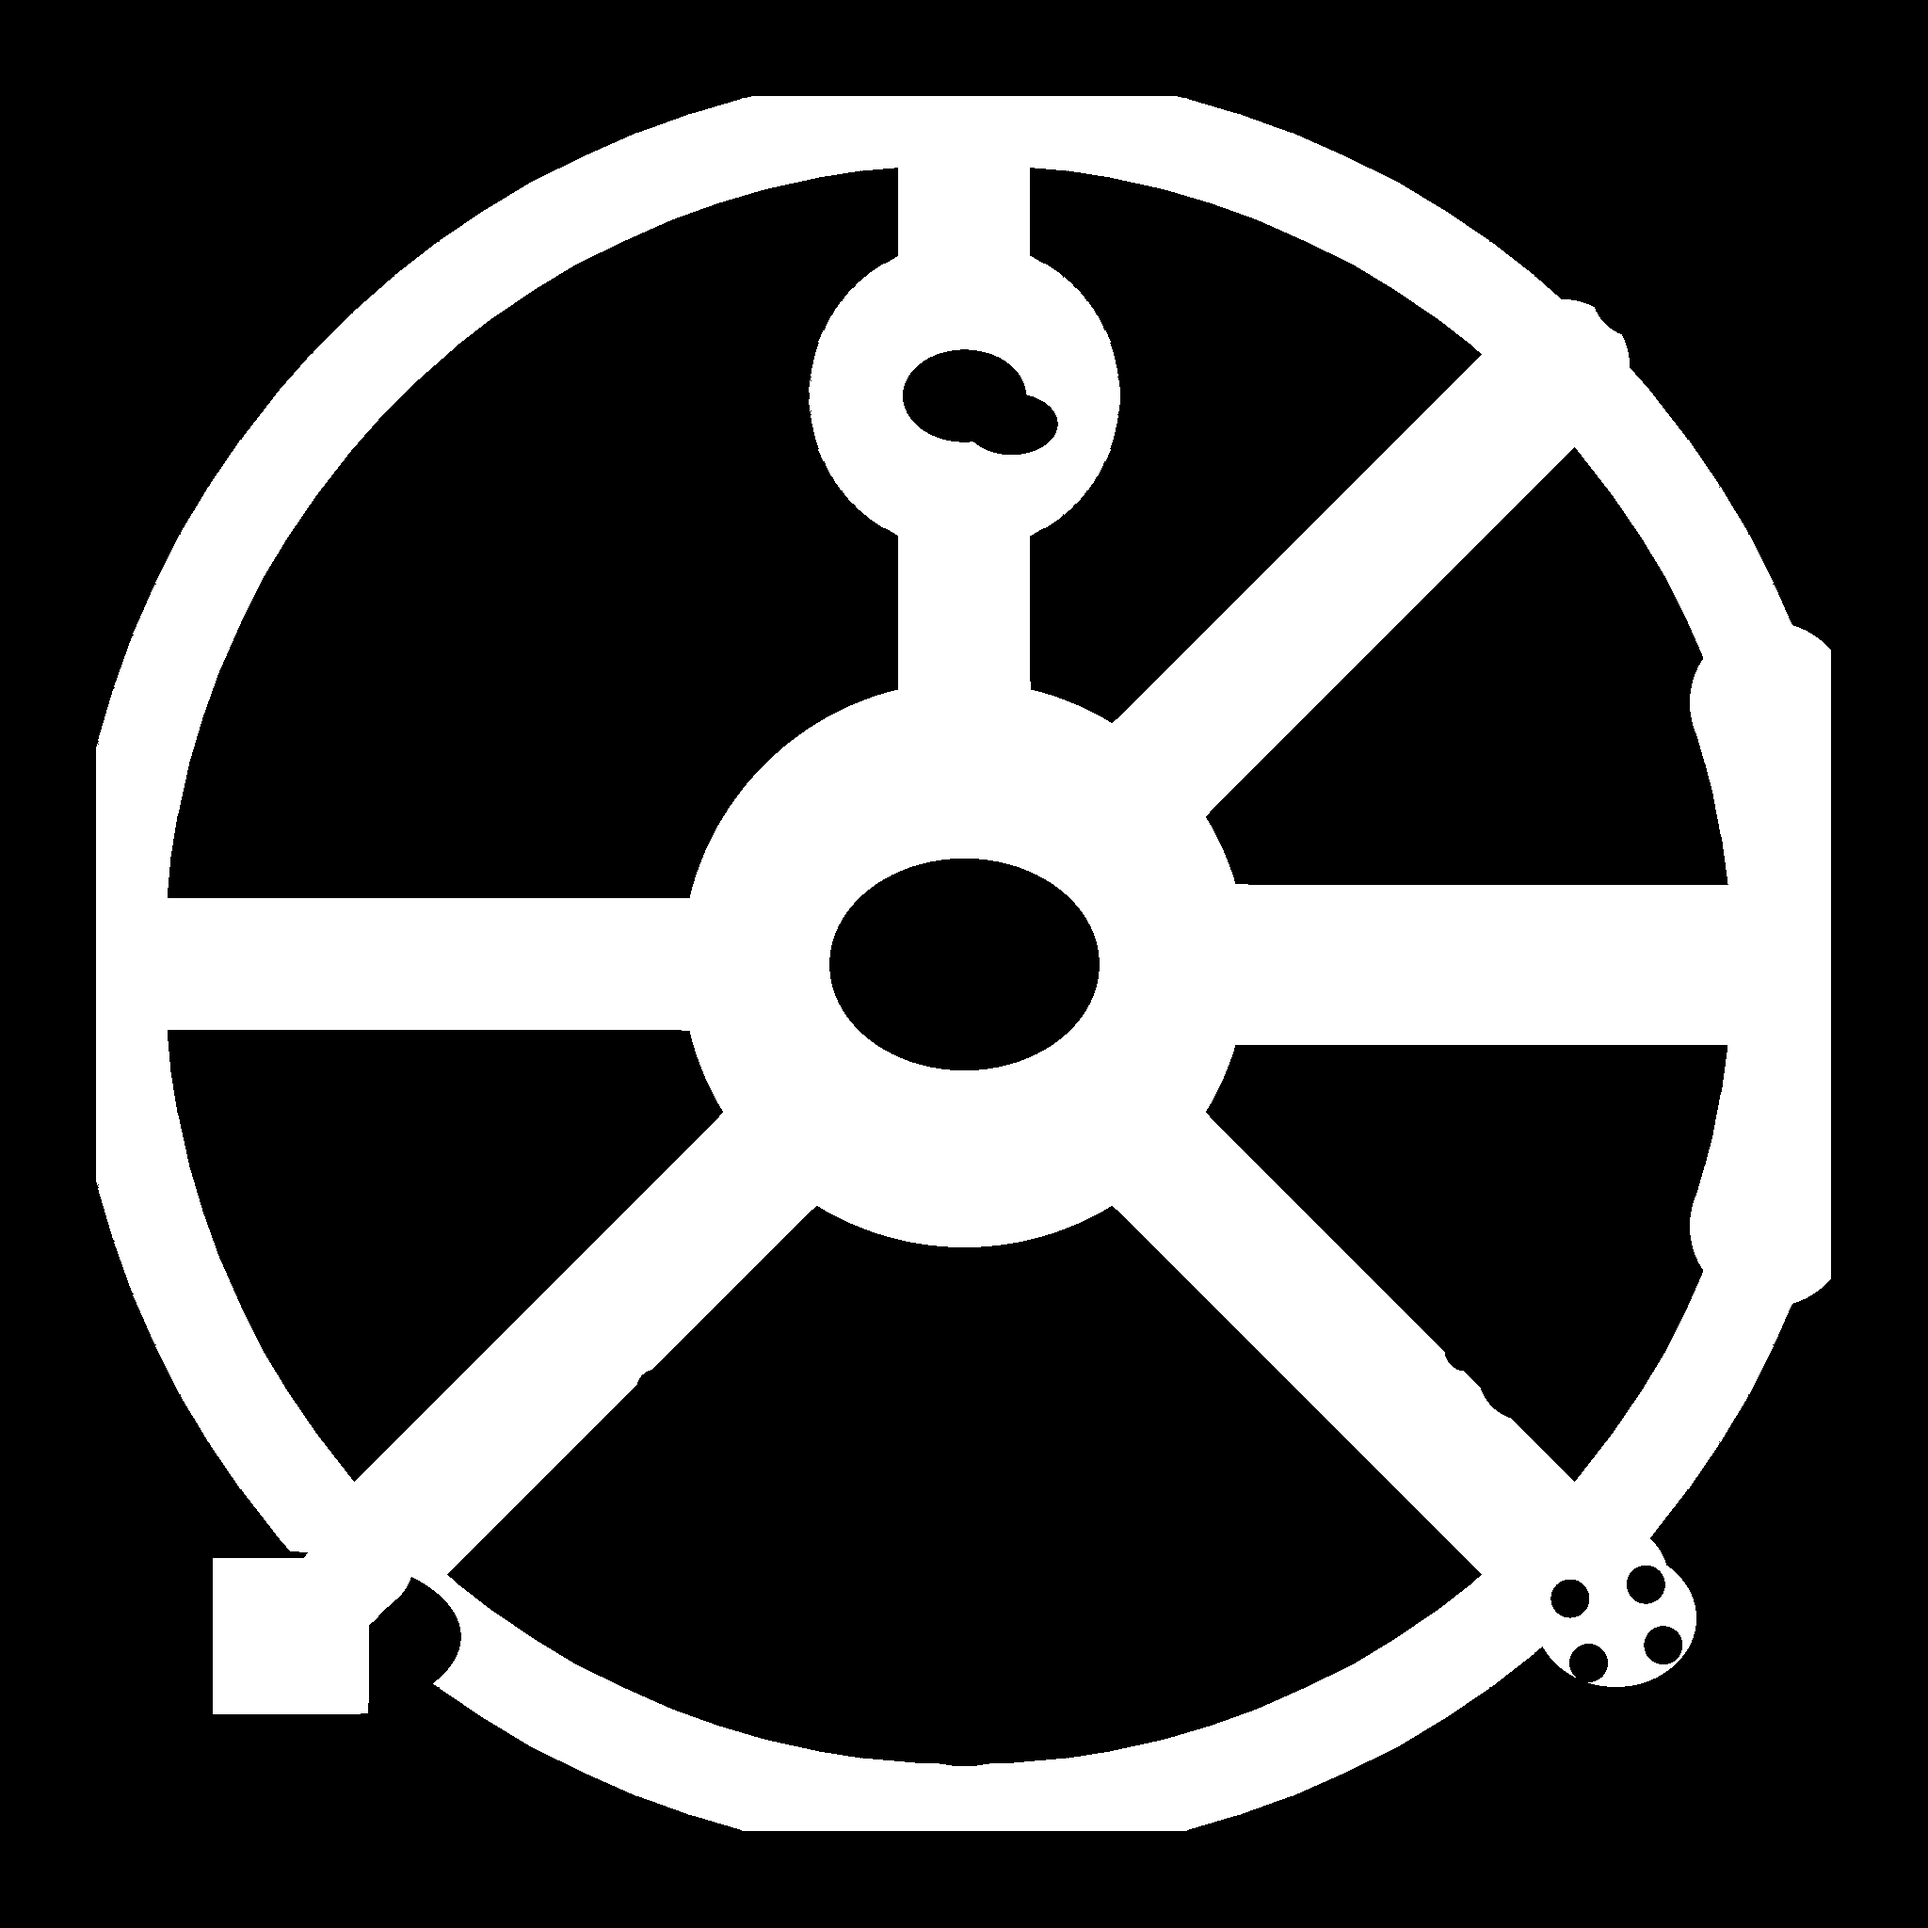
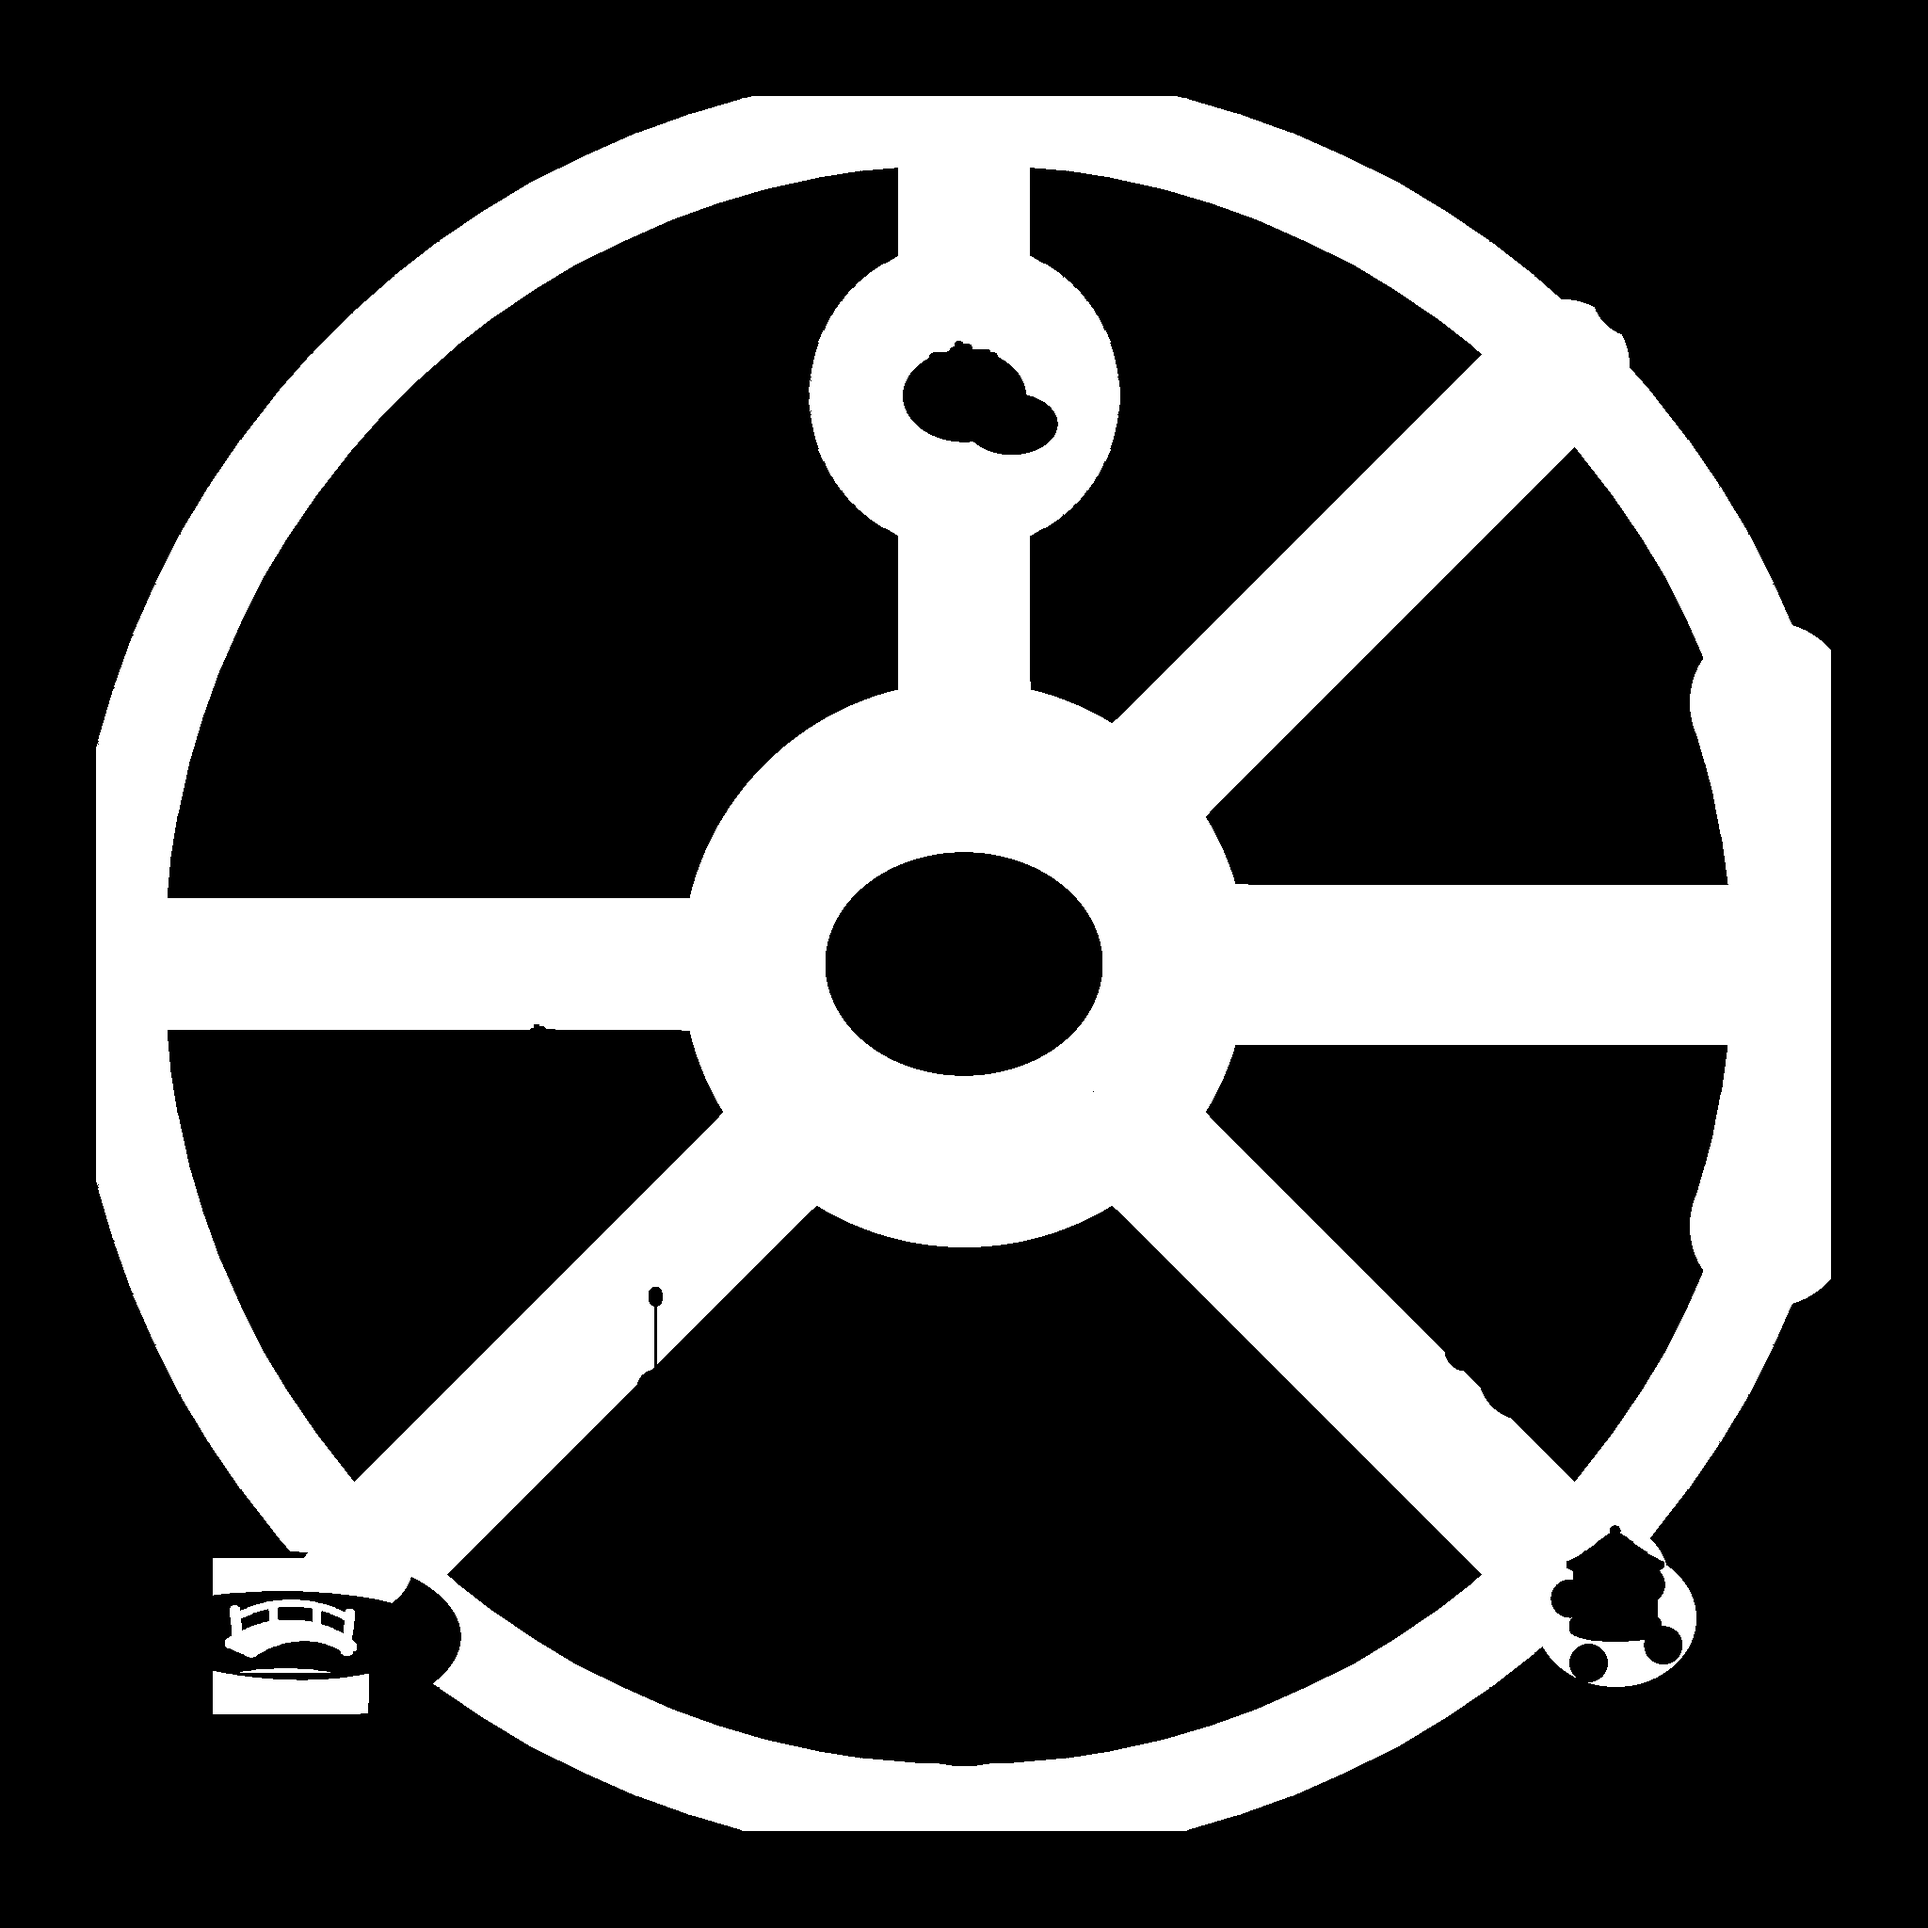
Keep Bé Da on the path around the fountain (#130)
Smoothing was allowed to cut blocked corners, and a pan or pinch cleared her route. The basin, pond, gazebo, and trunks are blocked, and only a new tap picks a new destination.

Changed region(s): [[0.0938, 0.8125, 0.2188, 0.875], [0.8125, 0.7812, 0.875, 0.875], [0.4375, 0.4375, 0.5312, 0.4688]]

diff --git a/lib/mascot/game/shell/pixi-runtime.ts b/lib/mascot/game/shell/pixi-runtime.ts
@@ -4,6 +4,7 @@ import { Viewport } from "pixi-viewport";
 import { lobbyMinScale, lobbyWorldSize, stackNameLabels } from "@/lib/mascot/game/lobby";
 import {
   LOBBY_WALK_MASK,
+  blockEllipse,
   findRoute,
   gridFromMask,
   gridSize,
@@ -15,7 +16,7 @@ import {
 import { LOBBY_DECOR, LOBBY_DECOR_MAP, LOBBY_GROUND, LOBBY_LAYOUT, type ParkPiece } from "@/lib/mascot/game/lobby-park";
 import { startShellClock } from "@/lib/game/core/clock";
 import { rendererResolution } from "@/lib/game/core/dpr";
-import { arrowGoal, TAP_MS } from "@/lib/game/core/input";
+import { arrowGoal, TAP_MS, walkTargetChanges } from "@/lib/game/core/input";
 import {
   LOBBY_BOUNDS,
   LOBBY_FOUNTAIN,
@@ -244,6 +245,7 @@ export async function startPixiShell(options: {
     const key = `${size.cols}x${size.rows}`;
     if (!walkGrid || walkGridKey !== key) {
       walkGrid = gridFromMask(maskPixels, maskW, maskH, size.cols, size.rows);
+      blockEllipse(walkGrid, LOBBY_FOUNTAIN);
       walkGridKey = key;
       standCache.clear();
       maskPixels = null;
@@ -398,14 +400,6 @@ export async function startPixiShell(options: {
     });
   };
 
-  const stopWalk = () => {
-    route = [];
-    if (!walker) return;
-    walker.goal = null;
-    walker.vx = 0;
-    walker.vy = 0;
-  };
-
   const aimNorm = (point: { x: number; y: number }, scene: ShellSceneName) => {
     const size = worldSize(scene, viewW, viewH);
     const grid = scene === "lobby" ? ensureWalkGrid(size.worldW, size.worldH) : null;
@@ -450,19 +444,12 @@ export async function startPixiShell(options: {
         minScale: lobbyMinScale(viewW, viewH, initialW, initialH),
         maxScale: ZOOM_MAX,
       });
-    viewport.on("drag-start", () => {
-      stopWalk();
-    });
-    viewport.on("pinch-start", () => {
-      stopWalk();
-    });
-    viewport.on("wheel-start", () => {
-      stopWalk();
-    });
     viewport.on("pointerdown", () => {
       downAt = performance.now();
     });
     viewport.on("clicked", (payload: { world?: { x: number; y: number } }) => {
+      // Drag and pinch clear clickedAvailable in pixi-viewport, so this is a tap.
+      if (!walkTargetChanges("tap")) return;
       if (performance.now() - downAt > TAP_MS) return;
       const world = payload?.world;
       if (!world) return;
@@ -474,7 +461,6 @@ export async function startPixiShell(options: {
   const api: ShellApi = {
     zoomBy(factor) {
       if (!lobby) return;
-      stopWalk();
       const size = worldSize("lobby", viewW, viewH);
       const scale = Math.min(ZOOM_MAX, Math.max(lobbyMinScale(viewW, viewH, size.worldW, size.worldH), viewport.scale.x * factor));
       viewport.animate({
@@ -497,10 +483,9 @@ export async function startPixiShell(options: {
         removeOnInterrupt: true,
       });
     },
-    panBy(dx, dy, user = true) {
+    panBy(dx, dy, _user = true) {
       viewport.x += dx;
       viewport.y += dy;
-      if (user) stopWalk();
     },
   };
   if (options.api) options.api.current = api;
@@ -524,7 +509,7 @@ export async function startPixiShell(options: {
         walker.y = stand.y;
       }
       const bounds = snap.scene === "room" ? ROOM_BOUNDS : LOBBY_BOUNDS;
-      const obstacle = snap.scene === "lobby" && !grid ? LOBBY_FOUNTAIN : null;
+      const obstacle = snap.scene === "lobby" ? LOBBY_FOUNTAIN : null;
       const span = snap.scene === "room" ? viewW : worldW;
       if (reduced && route.length > 0) {
         const last = route[route.length - 1]!;
@@ -629,6 +614,8 @@ export async function startPixiShell(options: {
         if (label) labelNodes.set(sprite.id, label);
       }
       if (label) {
+        label.dataset.nx = at.x.toFixed(4);
+        label.dataset.ny = at.y.toFixed(4);
         let size = labelSize.get(label);
         if (!size) {
           const tag = label.querySelector<HTMLElement>(".beda-tag") ?? label;

diff --git a/lib/mascot/game/lobby-walk.ts b/lib/mascot/game/lobby-walk.ts
@@ -108,16 +108,78 @@ export function nearestWalkable(grid: WalkGrid, x: number, y: number): WalkPoint
   return centerOf(grid, start.c, start.r);
 }
 
+function walkableCell(grid: WalkGrid, c: number, r: number): boolean {
+  if (c < 0 || r < 0 || c >= grid.cols || r >= grid.rows) return false;
+  return grid.walk[r * grid.cols + c] === 1;
+}
+
+/**
+ * Every cell the segment crosses, including the two sides of a diagonal step.
+ * Rounding the line onto one cell used to skip a blocked corner and cut the fountain.
+ */
 function lineClear(grid: WalkGrid, from: { c: number; r: number }, to: { c: number; r: number }): boolean {
-  const steps = Math.max(Math.abs(to.c - from.c), Math.abs(to.r - from.r));
-  if (steps === 0) return grid.walk[from.r * grid.cols + from.c] === 1;
-  for (let i = 0; i <= steps; i += 1) {
-    const t = i / steps;
-    const c = Math.round(from.c + (to.c - from.c) * t);
-    const r = Math.round(from.r + (to.r - from.r) * t);
-    if (grid.walk[r * grid.cols + c] !== 1) return false;
+  let c = from.c;
+  let r = from.r;
+  const dc = Math.abs(to.c - from.c);
+  const dr = Math.abs(to.r - from.r);
+  const sc = to.c > from.c ? 1 : to.c < from.c ? -1 : 0;
+  const sr = to.r > from.r ? 1 : to.r < from.r ? -1 : 0;
+  let err = dc - dr;
+  while (true) {
+    if (!walkableCell(grid, c, r)) return false;
+    if (c === to.c && r === to.r) return true;
+    const doubled = err * 2;
+    const stepC = doubled > -dr;
+    const stepR = doubled < dc;
+    if (stepC && stepR && (!walkableCell(grid, c + sc, r) || !walkableCell(grid, c, r + sr))) return false;
+    if (stepC) {
+      err -= dr;
+      c += sc;
+    }
+    if (stepR) {
+      err += dc;
+      r += sr;
+    }
   }
-  return true;
+}
+
+/** True when the straight segment between two points stays on walkable cells. */
+export function segmentStaysWalkable(grid: WalkGrid, from: WalkPoint, to: WalkPoint): boolean {
+  return lineClear(grid, cellOf(grid, from.x, from.y), cellOf(grid, to.x, to.y));
+}
+
+/**
+ * The fountain basin is not a path, even when a coarse cell is mostly the ring around it.
+ * A cell is blocked when any corner or its center sits inside the ellipse.
+ */
+export function blockEllipse(
+  grid: WalkGrid,
+  obstacle: { x: number; y: number; rx: number; ry: number },
+): void {
+  const { cols, rows, walk } = grid;
+  for (let r = 0; r < rows; r += 1) {
+    const y0 = r / rows;
+    const y1 = (r + 1) / rows;
+    for (let c = 0; c < cols; c += 1) {
+      const x0 = c / cols;
+      const x1 = (c + 1) / cols;
+      const samples = [
+        [x0, y0],
+        [x1, y0],
+        [x0, y1],
+        [x1, y1],
+        [(x0 + x1) / 2, (y0 + y1) / 2],
+      ];
+      for (const [x, y] of samples) {
+        const nx = (x - obstacle.x) / obstacle.rx;
+        const ny = (y - obstacle.y) / obstacle.ry;
+        if (nx * nx + ny * ny <= 1) {
+          walk[r * cols + c] = 0;
+          break;
+        }
+      }
+    }
+  }
 }
 
 function reconstruct(parent: Int32Array, goal: number, cols: number): { c: number; r: number }[] {

diff --git a/lib/mascot/game/lobby-walk.test.ts b/lib/mascot/game/lobby-walk.test.ts
@@ -2,7 +2,8 @@ import assert from "node:assert/strict";
 import { describe, it } from "node:test";
 
 import { stackNameLabels } from "@/lib/mascot/game/lobby";
-import { findRoute, isWalkable, nearestWalkable, type WalkGrid } from "@/lib/mascot/game/lobby-walk";
+import { blockEllipse, findRoute, isWalkable, nearestWalkable, segmentStaysWalkable, type WalkGrid } from "@/lib/mascot/game/lobby-walk";
+import { LOBBY_FOUNTAIN } from "@/lib/mascot/game/walk";
 
 function grid(rows: string[]): WalkGrid {
   const cols = rows[0]!.length;
@@ -73,6 +74,55 @@ describe("lobby walk mask", () => {
     assert.ok(route.length >= 1);
     for (const point of route) assert.equal(isWalkable(edge, point.x, point.y), true);
     assert.ok(route[route.length - 1]!.x > 0.7);
+  });
+
+  it("does not cut the blocked corner between two diagonal cells", () => {
+    const corner = grid(["#.", ".."]);
+    const from = { x: 0.25, y: 0.75 };
+    const to = { x: 0.75, y: 0.25 };
+    assert.equal(segmentStaysWalkable(corner, from, to), false);
+    const route = findRoute(corner, from, to);
+    assert.ok(route.length >= 1);
+    let prev = from;
+    for (const point of route) {
+      assert.equal(segmentStaysWalkable(corner, prev, point), true);
+      assert.equal(isWalkable(corner, point.x, point.y), true);
+      prev = point;
+    }
+  });
+
+  it("keeps a ring path around the fountain and never a chord through it", () => {
+    const ring = grid([
+      ".......",
+      "..###..",
+      ".#...#.",
+      ".#...#.",
+      ".#...#.",
+      "..###..",
+      ".......",
+    ]);
+    const route = findRoute(ring, { x: 0.08, y: 0.5 }, { x: 0.92, y: 0.5 });
+    assert.ok(route.length >= 2);
+    let prev = { x: 0.08, y: 0.5 };
+    for (const point of route) {
+      assert.equal(segmentStaysWalkable(ring, prev, point), true);
+      assert.equal(isWalkable(ring, point.x, point.y), true);
+      const nx = (point.x - 0.5) / 0.2;
+      const ny = (point.y - 0.5) / 0.2;
+      assert.ok(nx * nx + ny * ny > 1);
+      prev = point;
+    }
+  });
+
+  it("blocks every cell that touches the fountain basin", () => {
+    const open = grid([".....", ".....", ".....", ".....", "....."]);
+    blockEllipse(open, LOBBY_FOUNTAIN);
+    assert.equal(isWalkable(open, 0.5, 0.5), false);
+    assert.equal(isWalkable(open, 0.5, 0.9), true);
+    const inside = nearestWalkable(open, 0.5, 0.5);
+    const nx = (inside.x - 0.5) / LOBBY_FOUNTAIN.rx;
+    const ny = (inside.y - 0.5) / LOBBY_FOUNTAIN.ry;
+    assert.ok(nx * nx + ny * ny > 1);
   });
 
   it("moves the lower name down when two pills overlap", () => {

diff --git a/lib/game/core/core.test.ts b/lib/game/core/core.test.ts
@@ -7,7 +7,7 @@ import { fileURLToPath } from "node:url";
 import { shellArt } from "@/lib/game/core/art";
 import { startShellClock } from "@/lib/game/core/clock";
 import { cappedDpr, MAX_DPR, rendererResolution } from "@/lib/game/core/dpr";
-import { arrowGoal, gestureKind, pointerGesture, pointerKind } from "@/lib/game/core/input";
+import { arrowGoal, gestureKind, pointerGesture, pointerKind, walkTargetChanges } from "@/lib/game/core/input";
 import { applyPinch, easeZoom, panCamera, wheelZoomFactor } from "@/lib/game/core/zoom";
 import { screenToWorld, zoomAt } from "@/lib/mascot/game/walk";
 import { emptyRemoteBook, stepRemotes } from "@/lib/game/core/movement";
@@ -72,6 +72,11 @@ describe("pixi shell", () => {
     assert.equal(gestureKind(100, 30, 2), "pinch");
     assert.equal(gestureKind(200, 4, 1), "tap");
     assert.equal(gestureKind(300, 4, 1), "hold");
+    assert.equal(walkTargetChanges("tap"), true);
+    assert.equal(walkTargetChanges("pan"), false);
+    assert.equal(walkTargetChanges("pinch"), false);
+    assert.equal(walkTargetChanges("wheel"), false);
+    assert.equal(walkTargetChanges("hold"), false);
   });
 
   it("pauses the loop while the tab is hidden and drops the gap", () => {

diff --git a/lib/game/core/input.ts b/lib/game/core/input.ts
@@ -41,6 +41,11 @@ export function gestureKind(
   return "hold";
 }
 
+/** A new tap picks a destination. Panning or zooming the map leaves the walk alone. */
+export function walkTargetChanges(gesture: "tap" | "pan" | "pinch" | "wheel" | "hold"): boolean {
+  return gesture === "tap";
+}
+
 /** Arrow keys walk one short step. Other keys are ignored. */
 export function arrowGoal(from: Point, key: string, step = 0.06): Point | null {
   if (key === "ArrowLeft") return { x: from.x - step, y: from.y };
